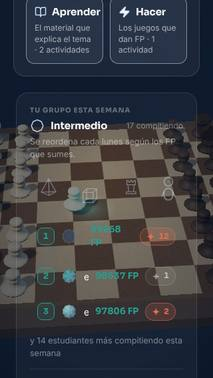
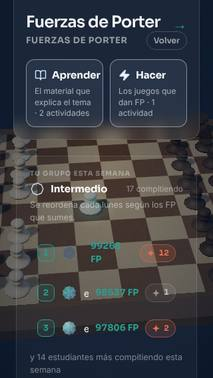
Decoración: Estratégico sin banda hasta la placa de #545 (auditoría de Shibukawa)
decoracionDe devuelve null en pensamiento-estrategico: sobre el tablero
3D las piezas quedan bajo 3:1. Pruebas, sonda, medidas y capturas al día.

Claude-Session: https://claude.ai/code/session_01X55WAged4taZWzNBE5QsR6

diff --git a/src/data/decoracionTablas.js b/src/data/decoracionTablas.js
@@ -13,4 +13,5 @@ export const PIEZAS_POR_TABLA = {
 
 /* La decoración de una tabla: `decoracion = { piezas, bucle, fae }`, la única entrada de RankingFP y LigaBoard. */
 export const decoracionDe = (clave, { bucle = true, fae = true } = {}) =>
-  ({ piezas: PIEZAS_POR_TABLA[clave] ?? PIEZAS_POR_TABLA.general, bucle, fae });
+  clave === "pensamiento-estrategico" ? null /* hasta la placa de #545 (vida-visual §7) */
+  : ({ piezas: PIEZAS_POR_TABLA[clave] ?? PIEZAS_POR_TABLA.general, bucle, fae });
